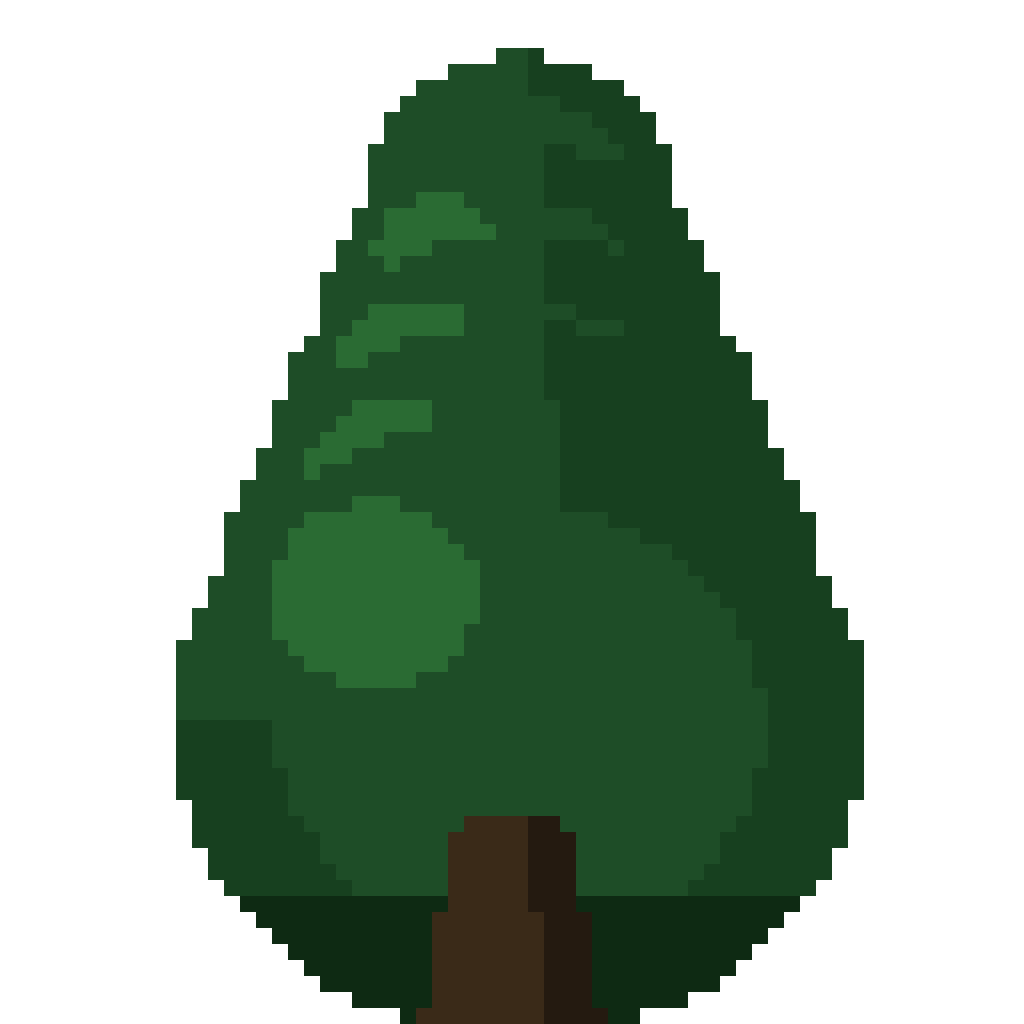
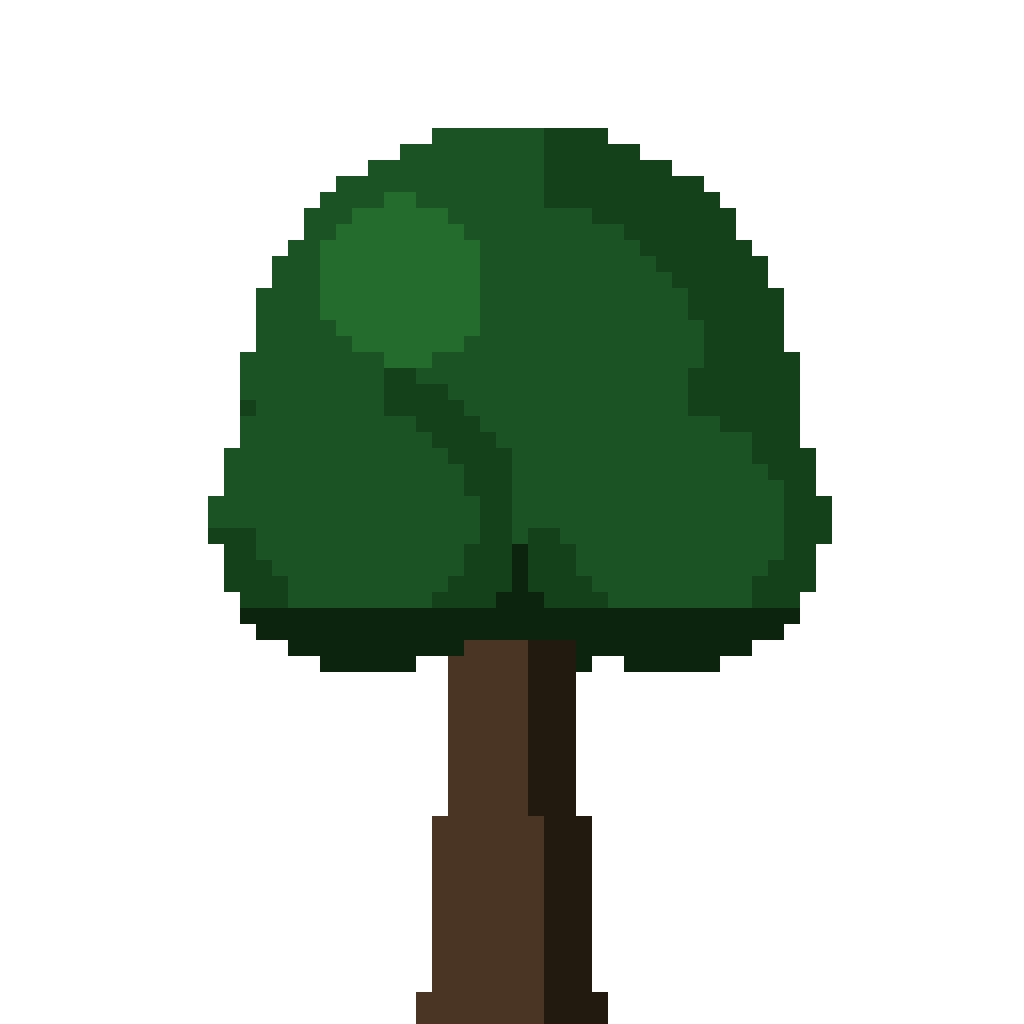
feat(garden): equal-chance daisy colours, and the autumn tree made rare
Daisies: grassBloomTint is now hash % petals.length -- every colour equally
likely, white included. kGrassBloomTintPercent is deleted along with its
cross-language gate; the requirement it encoded is gone, and it had been tuned
twice (22, then 25) before that happened. The test that asserted white was the
MAJORITY is replaced by one asserting all five land within 15% of an even share:
the opposite rule, pinned just as tightly, not a bound relaxed to hide a failure.

The autumn tree, measured rather than eyeballed: the seven hue families run at
hues 71, 95, 117, 128, 128, 141, 142. The olive at 71 is the yellowest by a wide
margin -- the next is 95 -- and a uniform pick gave it four of the twenty trees,
more than any other family. That is what tipped the wood into autumn.

Two attempts, and the first is worth recording. A weighted random pick (olive at
1 against 3) did cut the olive to one, and wrecked the rest: with twenty samples
the noise dominates, so one family landed six times and four landed once each.
Fixing one family's share by rolling dice cannot control the other six. Replaced
with an explicit TREE_FAMILY table alongside TREE_TILES, so the distribution is
written down -- olive twice, every other family three times, exactly. Placement
in the world is still hashed per tile, so the palette is balanced without the
forest itself repeating.

Removing the random family pick dropped an rb() call, which shifted every
[…]

Changed region(s): [[0.1562, 0.5312, 0.8438, 1.0], [0.1875, 0.0312, 0.6562, 0.5312], [0.6562, 0.1562, 0.8125, 0.5312]]

diff --git a/flutter/lib/engine/garden_engine.dart b/flutter/lib/engine/garden_engine.dart
@@ -81,7 +81,7 @@ const int kBigTreeClearTiles = 7;
 /// The drawn rect is the same for every 2-tile tree — what changes is how much
 /// of it the artwork actually fills, 41-56% here against 66-72% for the rest.
 /// Gated by a sprite test, so re-rolling a silhouette cannot leave this stale.
-const List<int> kNarrowTrees = [5, 13];
+const List<int> kNarrowTrees = [2, 10, 18];
 
 /// Bare-ground share for the tile hard against the clearing. Lower than the
 /// woods' [kForestGapPercent] because at one tile out a hole is a hole in the
@@ -122,24 +122,17 @@ const List<int> kGrassBloomPetals = [
   0xFFF5D98A, // butter
 ];
 
-/// Percent of grass daisies that get a coloured tint instead of white —
-/// "%75 beyaz gerisi, farkli renkler olsun random sansda olsun" (#v34.15).
+/// Index into [kGrassBloomPetals] for a grass daisy, from its tile hash.
 ///
-/// The first cut put this at 22, which reads as one coloured bloom per ~90
-/// empty tiles: on a 25-tile plot that is well under one flower, so in practice
-/// the colours never showed up at all. A quarter of the blooms is what "much
-/// rarer than white" actually means at this plot size.
-const int kGrassBloomTintPercent = 25;
-
-/// Index into [kGrassBloomPetals] for a grass daisy, from its tile hash. White
-/// nearly always; a coloured one is a find, not a pattern. The tint rolls on a
-/// DIFFERENT slice of the hash than the 5% bloom chance, so the two are
-/// independent and the colours don't cluster on whichever tiles happened to
-/// bloom.
-int grassBloomTint(int hash) {
-  if ((hash ~/ 100) % 100 >= kGrassBloomTintPercent) return 0; // white
-  return 1 + (hash ~/ 10000) % (kGrassBloomPetals.length - 1);
-}
+/// **Every colour equally likely, white included** (#v35.5) — "beyaz cogunlukla
+/// olsun demistim, ondan vazgeciyorum, hepsi esit oranda gelme sansi olsun".
+/// The white-dominant weighting this replaces went through two rounds of tuning
+/// (22% tinted, then 25%) before the requirement itself changed; there is no
+/// weighting left to tune now.
+///
+/// Rolls on a DIFFERENT slice of the hash than the 5% bloom chance, so the two
+/// stay independent and the colours don't cluster on whichever tiles bloomed.
+int grassBloomTint(int hash) => (hash ~/ 100) % kGrassBloomPetals.length;
 
 /// The clearing has a transition ring this many tiles deep before the woods
 /// proper start — "ilk 2 sira her taraftan, kücük cali, tas, ve kücük agac

diff --git a/flutter/test/engine_test.dart b/flutter/test/engine_test.dart
@@ -566,26 +566,23 @@ void main() {
       expect(kRockHeight - kVy, lessThanOrEqualTo(0.0));
     });
 
-    test('coloured grass daisies are rare, and white is still the default', () {
-      // "onlarin farkli renkli versiyonlari da türesin ayni sekilde, ama cok
-      // daha nadir bir sekilde türesinler."
-      var white = 0, tinted = 0;
-      final seen = <int>{};
-      for (var i = 0; i < 20000; i++) {
-        final t = grassBloomTint(i * 7919 % 0x7fffffff);
-        seen.add(t);
-        if (t == 0) {
-          white++;
-        } else {
-          tinted++;
-        }
+    test('every grass daisy colour is equally likely, white included', () {
+      // "beyaz cogunlukla olsun demistim, ondan vazgeciyorum, hepsi esit oranda
+      // gelme sansi olsun, random olsun" (#v35.5). This replaces a test that
+      // asserted white was the MAJORITY — the requirement itself changed, so
+      // the old assertion is gone rather than relaxed.
+      final counts = List<int>.filled(kGrassBloomPetals.length, 0);
+      const n = 20000;
+      for (var i = 0; i < n; i++) {
+        counts[grassBloomTint(i * 7919 % 0x7fffffff)]++;
       }
-      expect(white / (white + tinted), greaterThan(0.6),
-          reason: 'white is no longer the ordinary grass daisy');
-      expect(tinted, greaterThan(0), reason: 'no coloured daisies ever appear');
-      expect(seen.length, kGrassBloomPetals.length,
-          reason: 'some petal colours can never come up');
-      expect(kGrassBloomPetals.first, 0xFFFFFFFF, reason: 'index 0 must stay white');
+      final want = n / kGrassBloomPetals.length;
+      for (var i = 0; i < counts.length; i++) {
+        expect((counts[i] - want).abs() / want, lessThan(0.15),
+            reason: 'petal $i came up ${counts[i]} times, expected about $want');
+      }
+      expect(kGrassBloomPetals.first, 0xFFFFFFFF,
+          reason: 'index 0 is white — the one every other colour is a variant of');
     });
 
     test('what grows on a tile depends on the tile alone, never the camera', () {

diff --git a/flutter/android_overlay/kotlin/com/pixelpomo/pixel_pomo/GardenRenderer.kt b/flutter/android_overlay/kotlin/com/pixelpomo/pixel_pomo/GardenRenderer.kt
@@ -255,9 +255,6 @@ class GardenRenderer(private val data: GardenData) {
         0xFFFFFFFF.toInt(), 0xFFF2A6C4.toInt(), 0xFF9AB8F0.toInt(),
         0xFFE0B0F0.toInt(), 0xFFF5D98A.toInt())
 
-    /** Percent of grass daisies that are tinted rather than white. MUST match
-     *  kGrassBloomTintPercent in garden_engine.dart. */
-    private val grassBloomTintPercent = 25
 
     private fun drawGrassFlowers(canvas: Canvas) {
         for (r in 0 until rows) {
@@ -272,13 +269,10 @@ class GardenRenderer(private val data: GardenData) {
         }
     }
 
-    /** Mirrors _bloomTint in garden_engine.dart — a second, independent roll on
-     *  top of the 5% bloom chance, so a coloured flower is roughly one per 500
-     *  empty tiles and reads as a find rather than a pattern. */
-    private fun bloomTint(h: Int): Int {
-        if ((h / 100) % 100 >= grassBloomTintPercent) return 0
-        return 1 + (h / 10000) % (grassBloomPetals.size - 1)
-    }
+    /** Mirrors grassBloomTint in garden_engine.dart — every petal colour equally
+     *  likely, white included (#v35.5). Rolls on a different slice of the hash
+     *  than the 5% bloom chance so the two stay independent. */
+    private fun bloomTint(h: Int): Int = (h / 100) % grassBloomPetals.size
 
     // a small FLAT pixel daisy lying on the grass (petals + yellow eye) —
     // mirrors the in-app _paintBloom (#v20), not a billboard object.
@@ -625,7 +619,7 @@ class GardenRenderer(private val data: GardenData) {
     /** The narrow 2-tile trees — the only ones allowed in the innermost ring
      *  tile on the flanks, where a prop overlaps the clearing sideways. MUST
      *  match kNarrowTrees in garden_engine.dart (#v34.17). */
-    private val narrowTrees = intArrayOf(5, 13)
+    private val narrowTrees = intArrayOf(2, 10, 18)
 
     private fun narrowTree(c: Int, r: Int): String =
         "tree_" + narrowTrees[variant(c, r, narrowTrees.size)].toString().padStart(2, '0')

diff --git a/flutter/tools/gen_objects.py b/flutter/tools/gen_objects.py
@@ -189,6 +189,22 @@ def tree_grid():
 # change here has to be mirrored in both — see garden_engine.dart.
 TREE_TILES = [2, 3, 2, 4, 3, 2, 3, 3, 2, 4, 2, 3, 4, 2, 3, 2, 3, 4, 2, 3]
 
+# Hue family per tree, indexing `families` in _tree_variant (#v35.5). An
+# explicit table, not a random pick, because the counts across only twenty trees
+# are the whole point and a roll cannot hit them:
+#
+#   - a UNIFORM pick gave the olive (family 3, hue 71 — the yellowest by a wide
+#     margin, the next is 95) four of the twenty, more than any other family,
+#     which tipped the wood into autumn: "cok sonbahar havasi katiyor o";
+#   - WEIGHTING the roll fixed the olive but wrecked everything else — with
+#     twenty samples the noise dominates, and one family landed six times while
+#     four others landed once each.
+#
+# So the distribution is written down: **olive twice, every other family three
+# times**. Placement in the world is still hashed per tile, so this fixes the
+# palette's balance without making the forest itself repeat.
+TREE_FAMILY = [0, 4, 2, 5, 1, 6, 3, 2, 4, 1, 6, 0, 5, 2, 4, 1, 6, 5, 3, 0]
+
 # Pixels per tile in a tree sprite. A 4-tile tree drawn from a 16px grid would
 # upscale 4x more than a flower does and read as a blurry blob; sizing the grid
 # with the tree keeps the pixel density even across the whole scene.
@@ -242,7 +258,8 @@ def _tree_variant(seed):
         ("246B2E", "1B5526", "134018", "09230D"),   # darker still
         ("35704A", "245234", "173824", "0B2015"),   # dark blue-green
     ]
-    lit, mid, shade, under = (hexrgb(h) + (255,) for h in families[rb(len(families))])
+    lit, mid, shade, under = (
+        hexrgb(h) + (255,) for h in families[TREE_FAMILY[(seed - 1) % len(TREE_FAMILY)]])
     bark = hexrgb(["4A3421", "3A2A18", "56402A"][rb(3)]) + (255,)
     bark_d = hexrgb("241a10") + (255,)
 

diff --git a/flutter/tools/test_sprites.py b/flutter/tools/test_sprites.py
@@ -71,8 +71,6 @@ class TreeTableIsMirrored(unittest.TestCase):
          r"val undergrowthTiles = (\d+)"),
         ("small trees inside the ring", r"const int kRingTreeTiles = (\d+);",
          r"val ringTreeTiles = (\d+)"),
-        ("grass-bloom tint rarity", r"const int kGrassBloomTintPercent = (\d+);",
-         r"val grassBloomTintPercent = (\d+)"),
         ("inner-ring density", r"const int kRingInnerGapPercent = (\d+);",
          r"val ringInnerGapPercent = (\d+)"),
         ("narrow trees", r"const List<int> kNarrowTrees = \[([^\]]*)\]",
